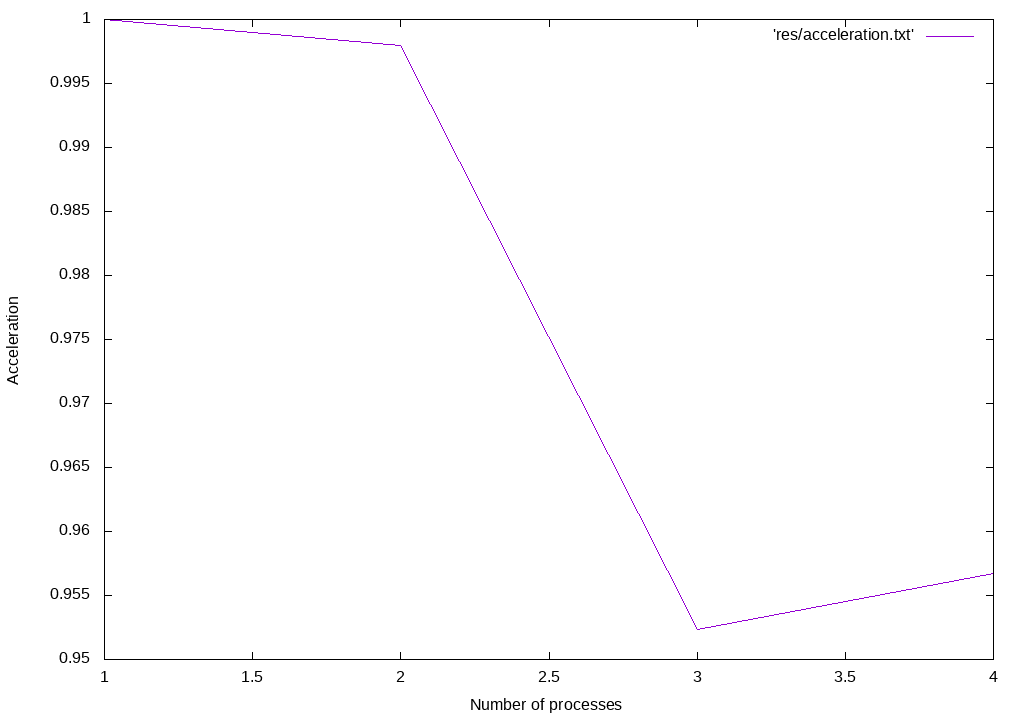
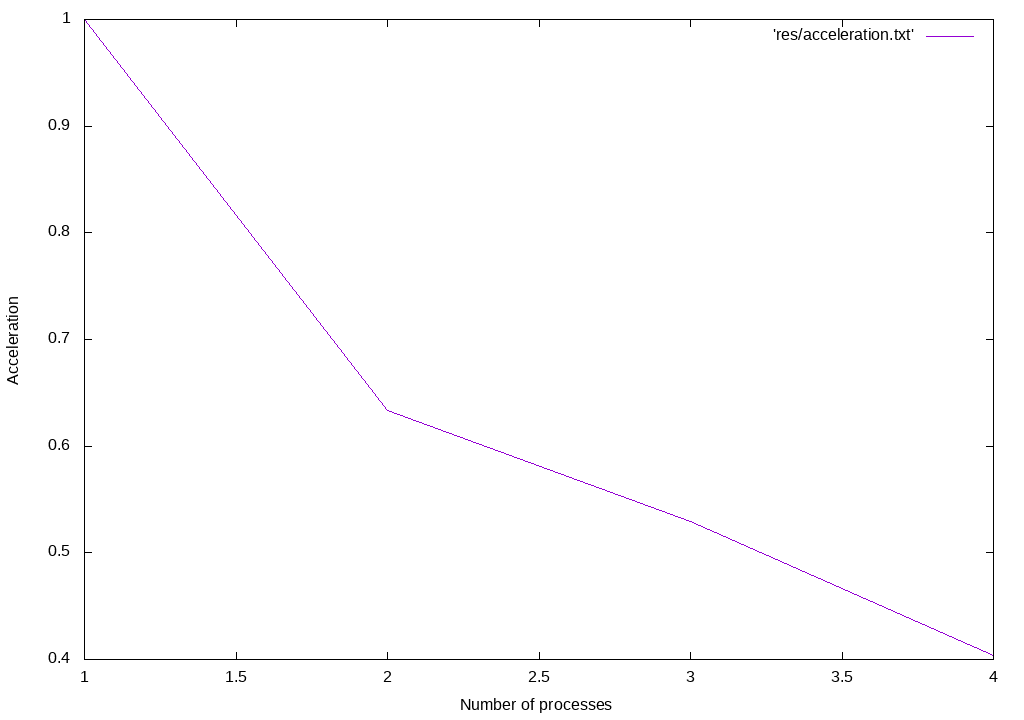
Added graphics and tested different schedule

diff --git a/OpenMP_integral/OmpFor/time.c b/OpenMP_integral/OmpFor/time.c
@@ -15,78 +15,48 @@ double Func(double x) {
     return sqrt(4 - x*x);
 }
 
-//Формула Котеса рассчета определенного интеграла для равномерной сетки
-double Integral(size_t left_index, size_t right_index, double h) {
-    double I = (Func(right_index * h) + Func(left_index * h)) / 2;
-
-    for(size_t i = left_index + 1; i < right_index; i++) {
-        I += Func(i * h);
-    }
-
-    return I * h;
-}
-
 int main(int argc, char **argv) {
     // Количество шагов
-    size_t N;
+    size_t N = 1000000;
     // Запрошенное кол-во процессов
-    int size;
-    //Количество последовательных выполнений программы для получения среднего времени выполнения
-    size_t numexp;
+    int size = 1;
+    // Количество последовательных выполнений программы для получения среднего времени выполнения
+    size_t numexp = 1;
     
-    if (argc > 2) {
+    if (argc > 1) {
         N = atoll(argv[1]);
-		if (argc > 3) {
-            size = atoll(argv[2]);
-            if(argc > 4) {
-                numexp = atoll(argv[2]);
-            } else {
-                numexp = 1;
+		if (argc > 2) {
+            size = atoi(argv[2]);
+            if(argc > 3) {
+                numexp = atoll(argv[3]);
             }
-        } else {
-            size = 1;
         }
-	} else {
-        N = 1000000;
     }
 
-    //Задаем границы интегрирования
+    // Задаем границы интегрирования
     double a = 0, b = 2;
-    //Задаем мелкость разбиения отрезка
+    // Задаем мелкость разбиения отрезка
     double h = (b - a) / N;
     double result = 0.0;
 
-    //Среднее время выполнения
-    double averaged_time = 0;
-    for(size_t i = 0; i < numexp; i++) {
-        //Начинаем отсчет времени
-        clock_t start = clock();
+    // Среднее время выполнения
+    double averaged_time = 0.0;
+    for(size_t j = 0; j < numexp; j++) {
+        // Начинаем отсчет времени
+        double start = omp_get_wtime();
+        result = (Func(0) + Func(N * h)) / 2;
 
         omp_set_num_threads(size);
-    #pragma omp parallel// reduction (+: result)
-    {
-        //Устанавливаем размер коммуникатора и ранг процесса
-        int rank = omp_get_thread_num();
-        
-        //Передаем каждому процессу "свои" индексы интегрирования
-        size_t left_index = rank * (N / size);
-        size_t right_index = (rank != size - 1) ? (rank + 1) * (N / size) : N;
+        #pragma omp parallel for schedule(static, 10000) reduction(+: result)
+            for(size_t i = 1; i < N; i++) {
+                result += Func(i * h);
+            }
 
-        omp_lock_t lock;
-        omp_init_lock(&lock);
-        //Определяем интеграл на заданном интервале
-        omp_set_lock(&lock);
-        result += Integral(left_index, right_index, h);
-        omp_unset_lock(&lock);
-
-        omp_destroy_lock(&lock);
-    }
-        clock_t end = clock();
-        averaged_time += (double)(end - start) / CLOCKS_PER_SEC;
+        result *= h;
+        averaged_time += (omp_get_wtime() - start);
     }
 
-    //Вывод размера коммуникатора, используемого программой, и усредненное время работы
-    printf("%d %lf\n", size, averaged_time/numexp);
-
+    //Вывод кол-ва процессов, используемых программой, и значение интеграла
+    printf("%d %lf\n", size, averaged_time / numexp);
 	return EXIT_SUCCESS;
 }

diff --git a/OpenMP_integral/OmpFor/solution.c b/OpenMP_integral/OmpFor/solution.c
@@ -15,18 +15,6 @@ double Func(double x) {
     return sqrt(4 - x*x);
 }
 
-//Формула Котеса рассчета определенного интеграла для равномерной сетки
-double Integral(size_t left_index, size_t right_index, double h) {
-    double I = (Func(right_index * h) + Func(left_index * h)) / 2;
-
-
-    for(size_t i = left_index + 1; i < right_index; i++) {
-        I += Func(i * h);
-    }
-
-    return I * h;
-}
-
 int main(int argc, char **argv) {
     // Количество шагов
     size_t N = 1000000;
@@ -45,27 +33,20 @@ int main(int argc, char **argv) {
         }
     }
 
-    //Задаем границы интегрирования
+    // Задаем границы интегрирования
     double a = 0, b = 2;
-    //Задаем мелкость разбиения отрезка
+    // Задаем мелкость разбиения отрезка
     double h = (b - a) / N;
     double result = (Func(0) + Func(N * h)) / 2;
 
     omp_set_num_threads(size);
-    #pragma omp parallel
-    {
-        //Устанавливаем размер коммуникатора и ранг процесса
-        int rank = omp_get_thread_num();
-
-        #pragma omp for reduction(+: result) nowait
+    #pragma omp parallel for schedule(static, 10000) reduction(+: result)
         for(size_t i = 1; i < N; i++) {
             result += Func(i * h);
         }
-    }
-
     result *= h;
-    //Вывод кол-ва процессов, используемого программой, и значение интеграла
-    printf("%d %lf\n", size, result);
 
+    //Вывод кол-ва процессов, используемых программой, и значение интеграла
+    printf("%d %lf\n", size, result);
 	return EXIT_SUCCESS;
 }

diff --git a/OpenMP_integral/OmpLock/data.c b/OpenMP_integral/OmpLock/data.c
@@ -1,0 +1,30 @@
+#include <stdio.h>
+#include <stdlib.h>
+
+int main(void) {
+    int size = 0;
+    double time = 1, tmp = 0;
+
+    FILE* data = fopen("res/data.txt","rt");
+    FILE* acceleration = fopen("res/acceleration.txt","w+");
+    FILE* efficiency = fopen("res/efficiency.txt","w+");
+    if((!data) || (!acceleration) || (!efficiency)) {
+        printf("Error open txt file\n");
+        return EXIT_FAILURE;
+    } else {
+        while(!feof(data)) {
+            if(fscanf(data,"%d %lf\n", &size, &time) != 0) {
+                if(size == 1) {
+                    tmp = time;
+                }
+                fprintf(acceleration, "%d %lf\n", size, tmp / time);
+                fprintf(efficiency, "%d %lf\n", size, tmp / time / size);
+            }
+        }
+        fclose(data);
+        fclose(acceleration);
+        fclose(efficiency);
+    }
+
+    return EXIT_SUCCESS;
+}

diff --git a/OpenMP_integral/OmpLock/solution.c b/OpenMP_integral/OmpLock/solution.c
@@ -63,13 +63,15 @@ int main(int argc, char **argv) {
             size_t left_index = rank * (N / size);
             size_t right_index = (rank != size - 1) ? (rank + 1) * (N / size) : N;
             double integral = Integral(left_index, right_index, h);
+
             omp_lock_t lock;
             omp_init_lock(&lock);
+
             // Определяем интеграл на заданном интервале
             omp_set_lock(&lock);
             result += integral;
             omp_unset_lock(&lock);
-
+            
             omp_destroy_lock(&lock);
         }
     }

diff --git a/OpenMP_integral/OmpFor/data.c b/OpenMP_integral/OmpFor/data.c
@@ -8,8 +8,8 @@ int main(void) {
     FILE* data = fopen("res/data.txt","rt");
     FILE* acceleration = fopen("res/acceleration.txt","w+");
     FILE* efficiency = fopen("res/efficiency.txt","w+");
-    if((!data) || (!acceleration)) {
-        printf("Error open data.txt\n");
+    if((!data) || (!acceleration) || (!efficiency)) {
+        printf("Error open txt file\n");
         return EXIT_FAILURE;
     } else {
         while(!feof(data)) {
